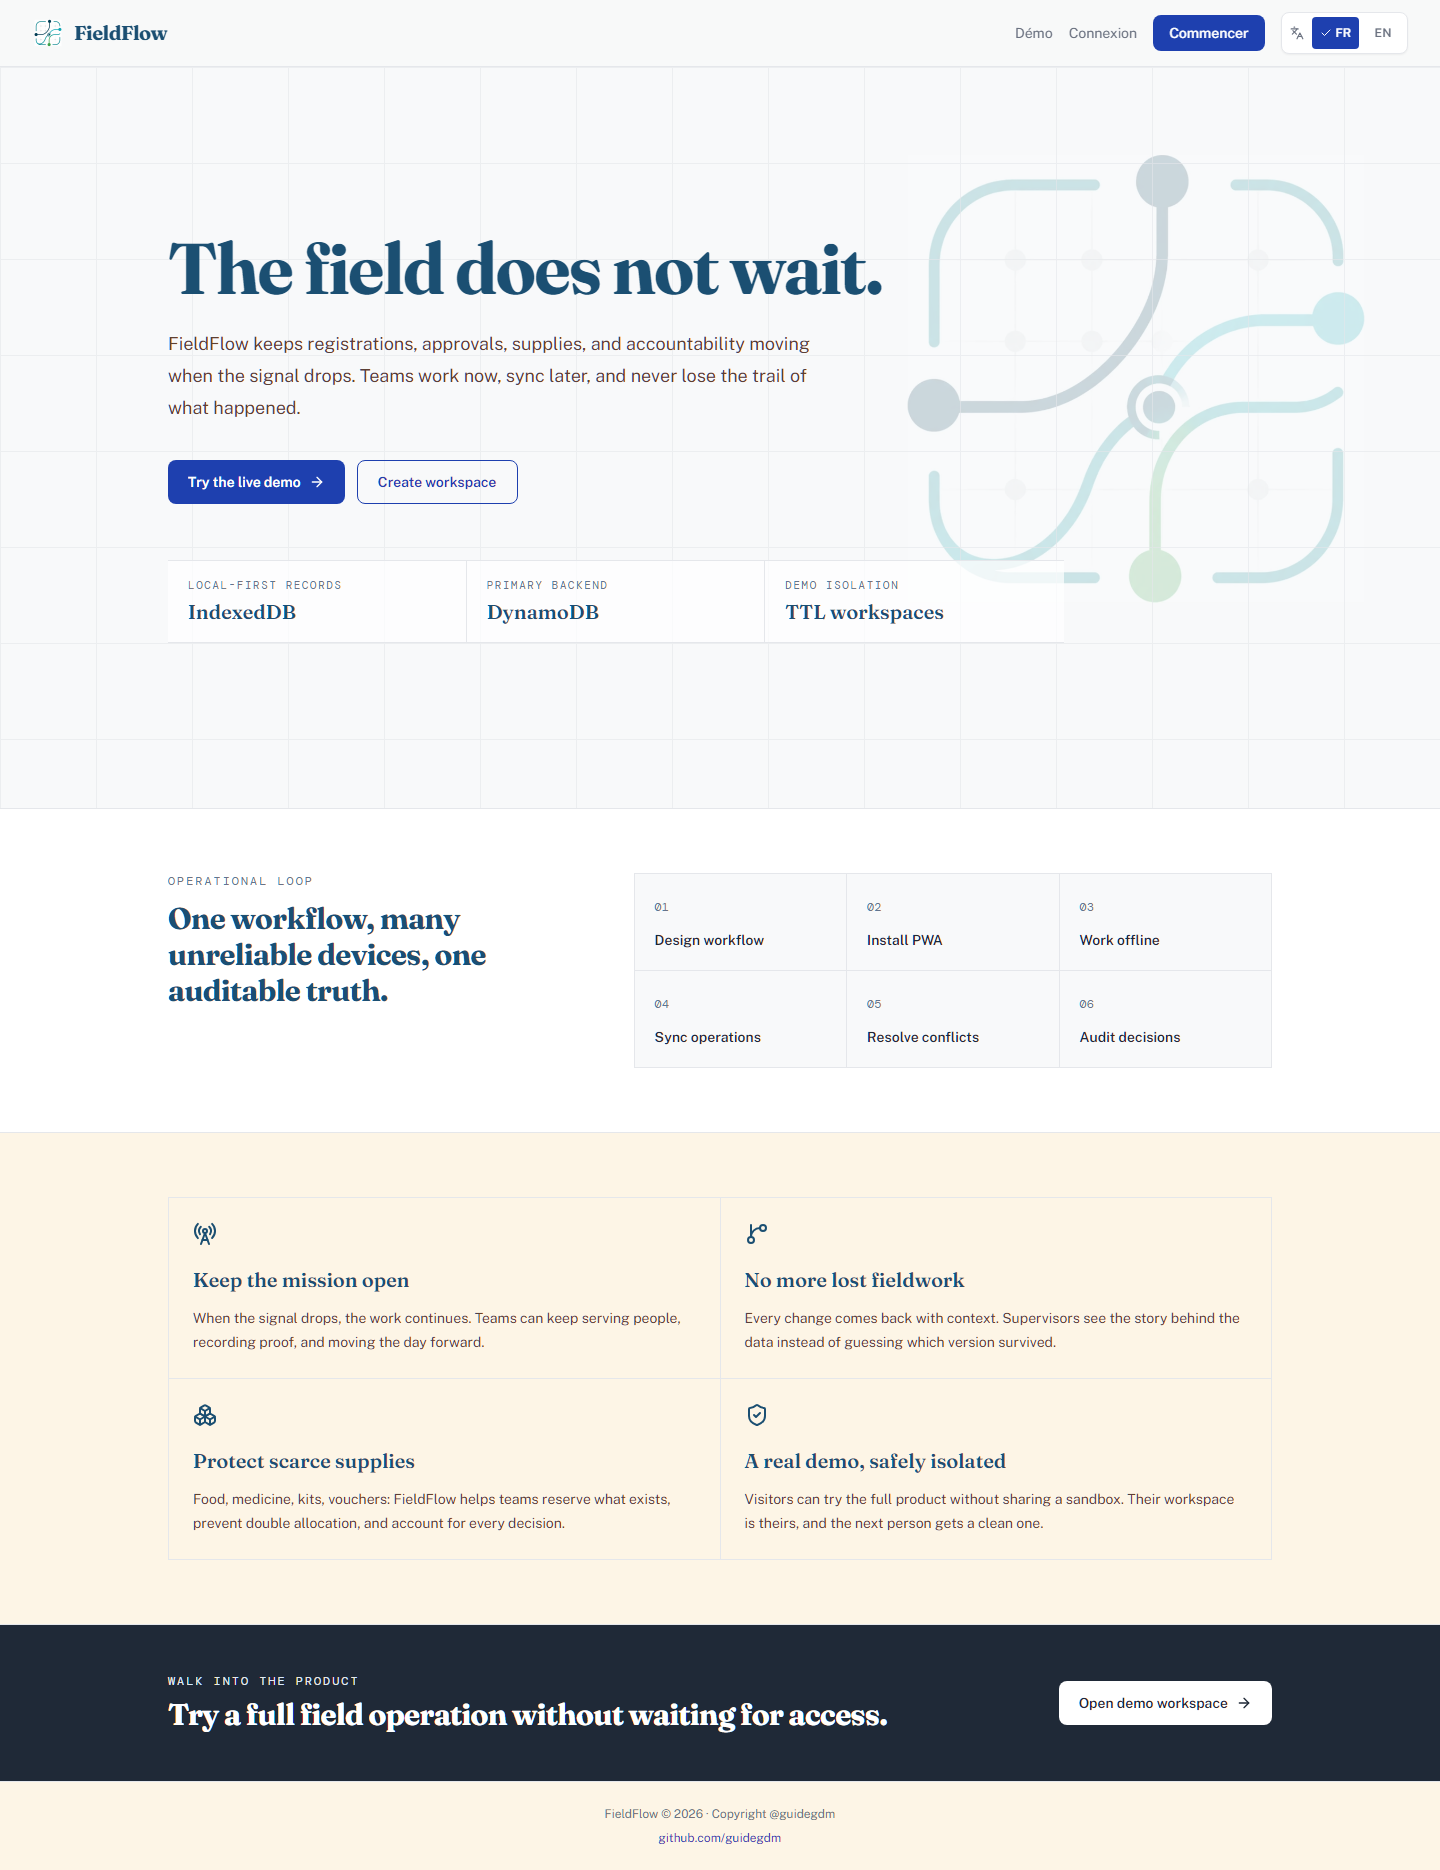
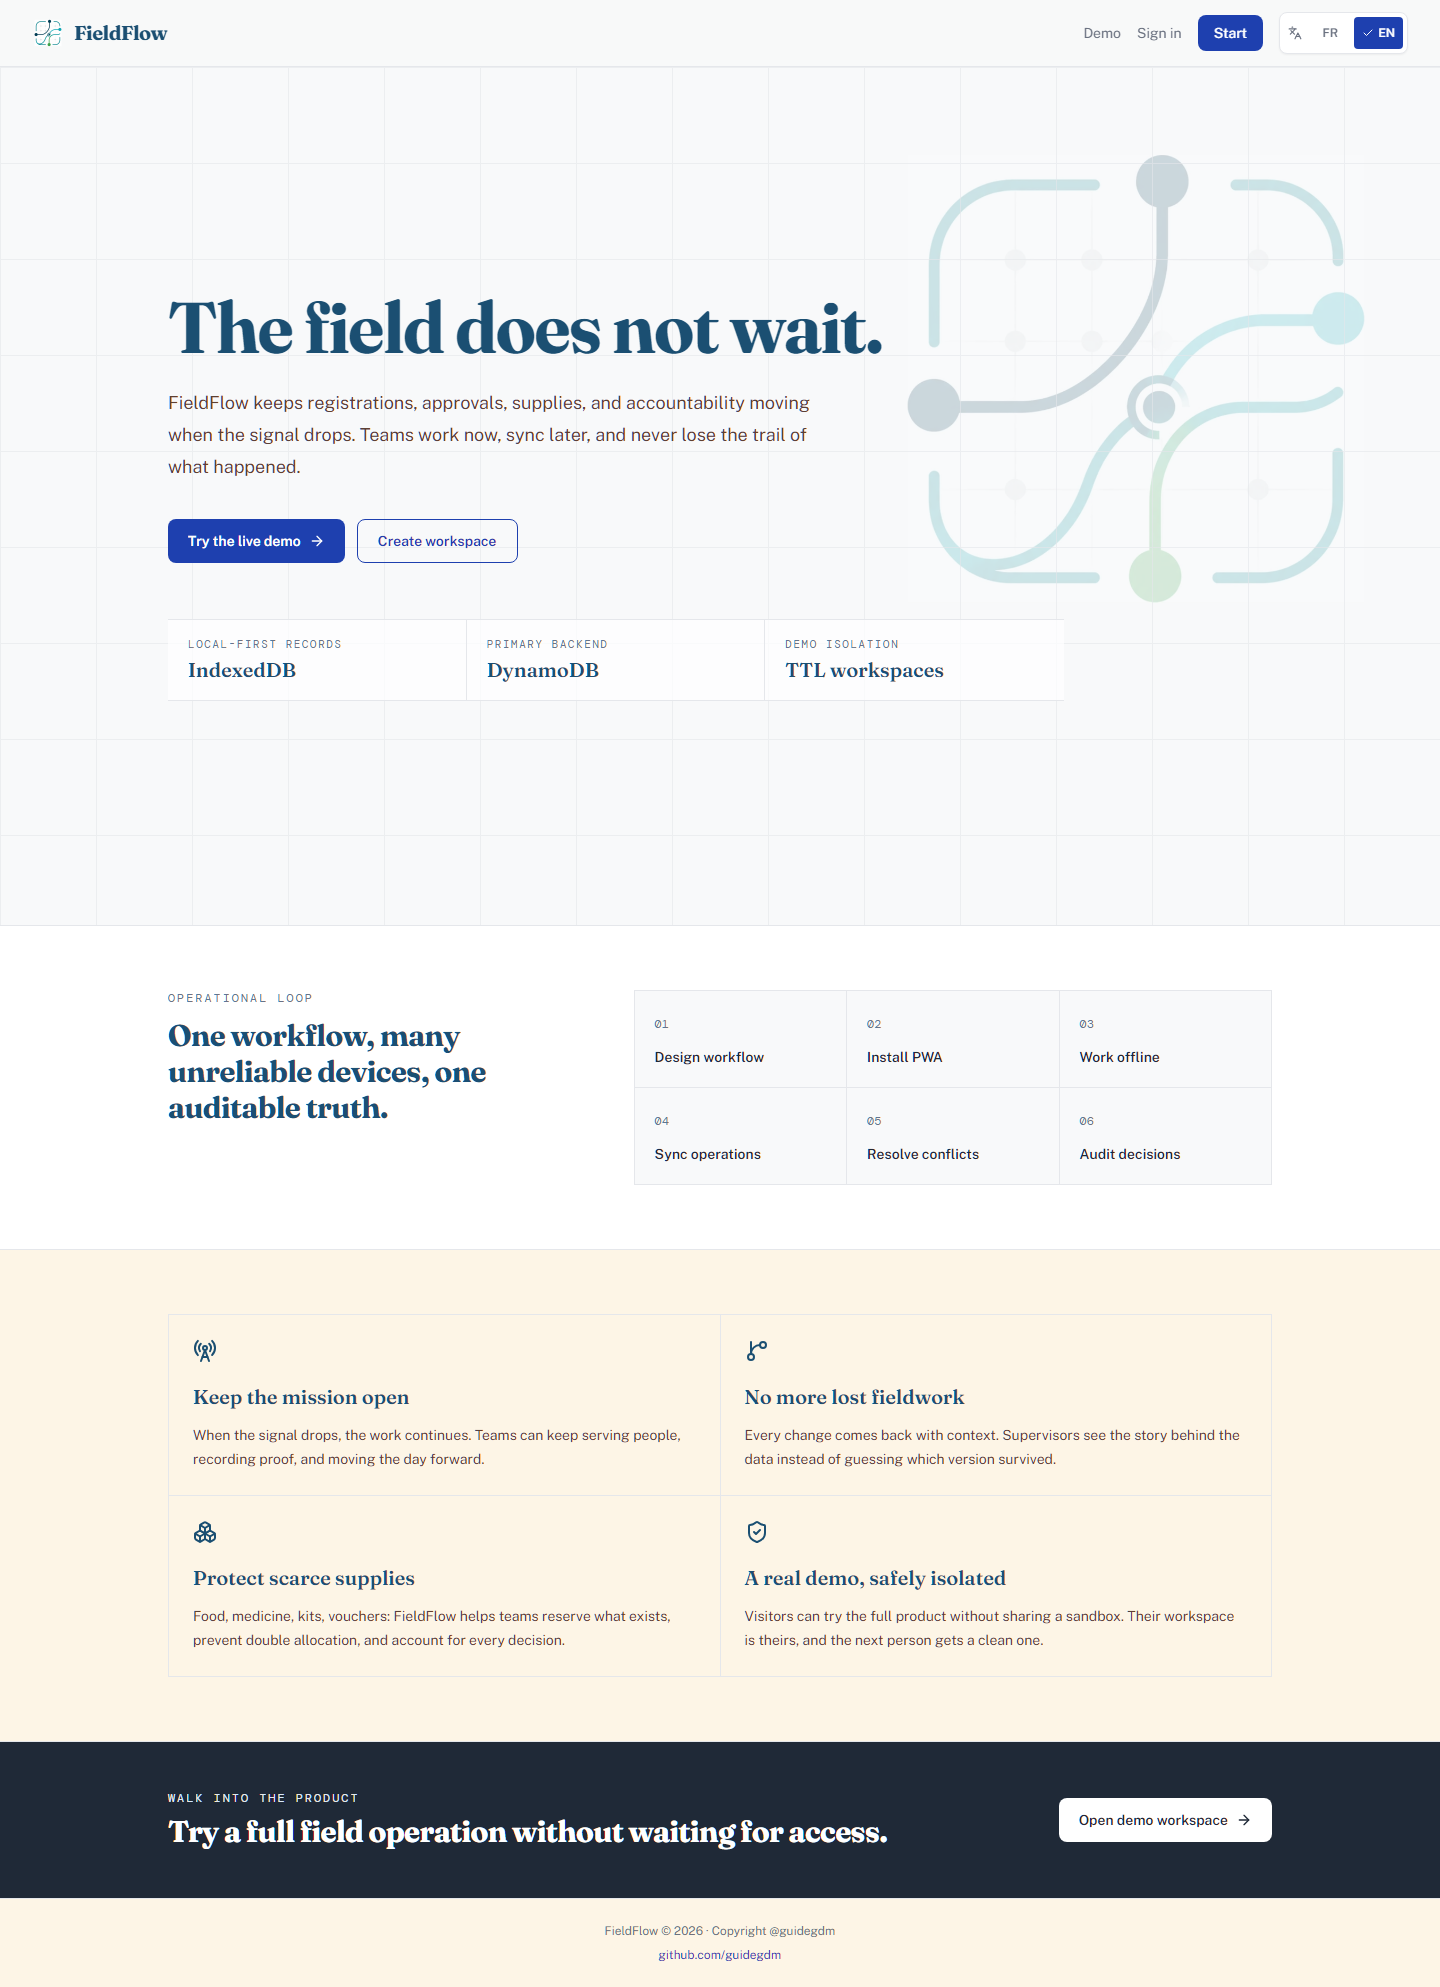
Clean README presentation assets

diff --git a/README.md b/README.md
@@ -25,6 +25,8 @@
   <img src="./screenshots/devpost-live-2026-06-28T18-25-00-769Z/01-desktop-public-landing.png" alt="FieldFlow landing page" width="920" />
 </p>
 
+This live desktop view shows the core promise: field teams can design workflows, install the PWA, keep working offline, synchronize operations, resolve conflicts, and preserve an auditable trail. The landing page also calls out the actual product foundation: IndexedDB on the device, DynamoDB as the primary backend, and TTL-scoped demo workspaces.
+
 ## What FieldFlow Solves
 
 FieldFlow is built for field teams working in limited-connectivity environments: humanitarian response, rural health, logistics, agriculture, construction, and community programs. These teams still need to register people, collect evidence, review cases, reserve inventory, and preserve an audit trail when internet access is unstable or unavailable.
@@ -46,41 +48,29 @@ FieldFlow turns operational workflows into installable Progressive Web Apps. Wor
 - English/French i18n loaded into the client bundle for offline language switching.
 - Mobile shell with bottom navigation plus account drawer for organization switching and logout.
 
-## Screenshots
-
-| Landing | Demo sandbox | Admin dashboard |
-| --- | --- | --- |
-| ![Landing](./screenshots/devpost-live-2026-06-28T18-25-00-769Z/01-desktop-public-landing.png) | ![Demo](./screenshots/devpost-live-2026-06-28T18-25-00-769Z/02-desktop-public-demo.png) | ![Admin dashboard](./screenshots/devpost-live-2026-06-28T18-25-00-769Z/09-desktop-admin-dashboard.png) |
-
-| Workflow builder | Worker registration | Sync status |
-| --- | --- | --- |
-| ![Workflow builder](./screenshots/devpost-live-2026-06-28T18-25-00-769Z/11-desktop-admin-workflow-builder-fields.png) | ![Worker registration](./screenshots/devpost-live-2026-06-28T18-25-00-769Z/20-desktop-worker-register-filled.png) | ![Sync status](./screenshots/devpost-live-2026-06-28T18-25-00-769Z/22-desktop-worker-sync-status.png) |
-
-| Mobile landing | Mobile demo | Mobile signup |
-| --- | --- | --- |
-| ![Mobile landing](./screenshots/devpost-live-2026-06-28T18-25-00-769Z/05-mobile-public-landing.png) | ![Mobile demo](./screenshots/devpost-live-2026-06-28T18-25-00-769Z/06-mobile-public-demo.png) | ![Mobile signup](./screenshots/devpost-live-2026-06-28T18-25-00-769Z/08-mobile-auth-signup.png) |
-
 ## Architecture
 
 <p align="center">
   <img src="./diagrams/02-runtime-architecture.png" alt="FieldFlow runtime architecture" width="920" />
 </p>
 
-FieldFlow uses a single-table-style DynamoDB access model through a Next.js API layer. The browser owns the local-first experience; the server owns authentication, tenant isolation, idempotency, sync ordering, conflict creation, and transactional inventory reservations.
+The runtime is split deliberately. The browser owns the resilient field experience with a PWA shell, IndexedDB, local mutation queues, and route caches. The Next.js API layer handles authentication, tenant boundaries, sync orchestration, workflow publication, AI drafting, and DynamoDB writes. DynamoDB stores the operational backbone: records, workflows, mutations, conflicts, inventory, audit events, and demo sandbox metadata.
 
-### Key Diagrams
+### System Context
 
-| System context | DynamoDB access model |
-| --- | --- |
-| ![System context](./diagrams/01-system-context.png) | ![DynamoDB access model](./diagrams/03-dynamodb-access-model.png) |
+<p align="center">
+  <img src="./diagrams/01-system-context.png" alt="FieldFlow system context" width="920" />
+</p>
 
-| Offline sync | Conflict resolution |
-| --- | --- |
-| ![Offline sync protocol](./diagrams/04-offline-sync-protocol.png) | ![Conflict resolution](./diagrams/05-conflict-resolution.png) |
+FieldFlow sits between administrators, field workers, supervisors, and the cloud services that keep the system shippable. Admins define workflows, workers use the generated app in the field, supervisors review exceptions, and the backend keeps every tenant isolated while still supporting anonymous demo sandboxes.
 
-| Demo isolation | Auth cookies |
-| --- | --- |
-| ![Demo isolation and TTL](./diagrams/06-demo-isolation-ttl.png) | ![Auth cookie refresh](./diagrams/07-auth-cookie-refresh.png) |
+### Conflict Resolution
+
+<p align="center">
+  <img src="./diagrams/05-conflict-resolution.png" alt="FieldFlow conflict resolution flow" width="920" />
+</p>
+
+The sync layer uses a git-like 3-way merge model for structured records. Mutations carry `base_version` and `base_fields`, so the server can tell whether a field changed only locally, only remotely, or on both sides. Clean changes merge automatically. Same-field disagreements in manual workflows become conflict records for human review instead of silent overwrites.
 
 ## Sync Model
 